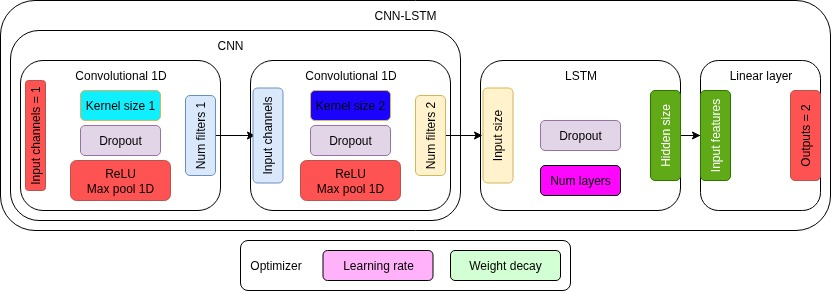
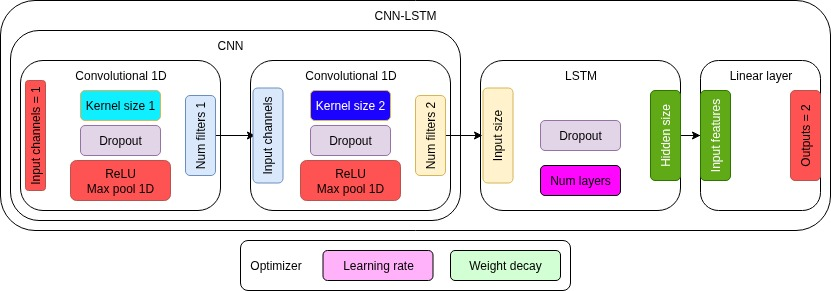
Final touches on report

diff --git a/report/JacobLarsen_4101586.tex b/report/JacobLarsen_4101586.tex
@@ -5,7 +5,7 @@
 % Language setting
 % Replace `english' with e.g. `spanish' to change the document language
 \usepackage[english]{babel}
-
+\usepackage{csquotes}
 % Set page size and margins
 % Replace `letterpaper' with `a4paper' for UK/EU standard size
 \usepackage[a4paper,top=3cm,bottom=3cm,left=2cm,right=2cm]{geometry}
@@ -39,7 +39,7 @@
 \setlength{\textfloatsep}{1pt}      % Space between text and floats
 \setlength{\abovecaptionskip}{1pt}  % Space above captions
 \setlength{\belowcaptionskip}{1pt}  % Space below captions
-
+\setcounter{tocdepth}{2}
 \begin{document}
 \subfile{sections/frontpage.tex}
 
@@ -50,7 +50,7 @@
 \newpage
 \begin{abstract}
 %The abstract should provide a comprehensive overview of your task, detailing the problem you are addressing, the algorithm you have selected/developed/applied, the dataset you used for evaluation, and the results you obtained. Please ensure the structure reflects a typical computer vision paper, focusing on clarity and conciseness.
-Automated detection of epileptic seizures from Electroencephalography (EEG) data is critical for improving clinical workflows, patient care, and targeted neuromodulation therapies. Traditional visual inspection of massive EEG volumes by neurologists is slow, labor-intensive, and prone to human error. To address this, we investigate a hybrid deep learning framework combining a Convolutional Neural Network (CNN) and a Long Short-Term Memory (LSTM) network to automatically extract local structural patterns and track temporal dependencies in sequential time-series data.
+Automated detection of epileptic seizures from Electroencephalography (EEG) data is critical for improving clinical workflows, patient care, and targeted neuromodulation therapies. Traditional visual inspection of massive EEG volumes by neurologists is slow, labor-intensive, and prone to human error. To address this, a hybrid deep learning framework is investigated, combining a Convolutional Neural Network (CNN) and a Long Short-Term Memory (LSTM) network to automatically extract local structural patterns and track temporal dependencies in sequential time-series data.
 
 The proposed CNN-LSTM architecture is rigorously evaluated on the Bonn University EEG dataset for binary classification between healthy states and active seizures. To assess robustness on more complex temporal structures, the model is further benchmarked against a secondary hand-gesture dataset. Minimal preprocessing, featuring bandpass filtering and z-score normalization, is applied to preserve anomalous neural spikes. For the EEG task, data augmentation is achieved via 1-second segmenting with a 75\% overlap, utilizing stratified splits and weighted cross-entropy loss to combat class imbalances. Hyperparameters are optimized using a comprehensive 1152-configuration grid search followed by 5-fold cross-validation.
 
@@ -73,15 +73,22 @@ Experimental results demonstrate that the optimal CNN-LSTM model achieves a high
 % References
 \newpage
 %\bibliographystyle{apalike}  % Choose from: plain, apalike, ieeetr, etc.
-\printbibliography
+%\printbibliography
+\section{References}
+\printbibliography[
+heading=none
+]
 \newpage
+\section{Acknowledgments}
+Generative AI has been used in this report for proofreading, clarification and drafting of certain paragraphs.
 \appendix
-\section{Source code link}
+\section{Appendix}
+\subsection{Source code link}
 The source code of the project can be found on Github:
 \url{https://github.com/Jack-The-Dane/KIV}
-\section{5 best grid search models}
+\subsection{5 best grid search models}
 \label{app:gridsearch}
-\begin{table}
+\begin{table}[h]
     \centering
     \begin{tabular}{c|c|c|c|c|c}
         Parameter    & Model 1 & Model 2 & Model 3 & Model 4 & Model 5 \\

diff --git a/report/sections/results.tex b/report/sections/results.tex
@@ -15,7 +15,7 @@ The grid search algorithm searched through $1152$ different combinations of hype
     \label{tab:gridsearch}
 \end{table}
 \subsection{Cross validation}
-The five top-performing models from the grid search (ranked by F1-score) were evaluated using five-fold cross-validation. The five models can be seen in \cref{tab:app_gridsearch}. To allow sufficient opportunity for optimization, the early stopping patience was set to nine epochs.
+The five top-performing models from the grid search (ranked by F1-score) were evaluated using five-fold cross-validation. The five models can be seen in \cref{app:gridsearch}. To allow sufficient opportunity for optimization, the early stopping patience was set to nine epochs.
 
 The parameters and cross-validation metrics (averaged across all five folds) for the optimal seizure detection model are presented in \cref{tab:bestmodel}. \cref{fig:confusion} displays the averaged, normalized confusion matrix for this model. The model achieved a low error rate of 0.69\%, consisting of 0.26\% false negatives and 0.43\% false positives.
 
@@ -61,9 +61,9 @@ The training and validation loss curves for the first fold are illustrated in \c
     \label{fig:metrics}
 \end{figure}
 \subsection{Comparison with logistic regression}
-While this model behaves very nicely on the Bonn University EEG dataset, this is also quite a simple dataset, with very clear separations between the classified labels, meaning that a much simpler model would have been able to reach comparable results. A group member trained a logistic regression model, using only statistical features of the dataset, their results can be seen in \cref{tab:kasper}. As seen in the table, their model reaches a result remarkably close to the CNN-LSTM model despite being much simpler. This can mostly be explained by the simplicity of the dataset.
+While this model behaves very nicely on the Bonn University EEG dataset, this is also quite a simple dataset, with very clear separations between the classified labels, meaning that a much simpler model would have been able to reach comparable results. A group member, Kasper, trained a logistic regression model, using only statistical features of the dataset, their results can be seen in \cref{tab:kasper}. As seen in the table, their model reaches a result remarkably close to the CNN-LSTM model despite being much simpler. This can mostly be explained by the simplicity of the dataset.
 
-\begin{table}
+\begin{table}[h]
     \caption{Seizure classification results of logistic regression model, implemented by group member}
     \label{tab:kasper}
     \begin{subtable}{.5\linewidth}
@@ -93,13 +93,13 @@ While this model behaves very nicely on the Bonn University EEG dataset, this is
     \end{subtable} 
 \end{table}
 \subsection{Comparing gesture classification capabilities}
-To test how the two models compare on a more advanced dataset, both models were tasked with binary classification on a gesture dataset. With the gesture dataset, the same five model configurations as before were validated with five-fold cross validation. This is justified by the relatively large variation in hyper-parameter configurations of those five models.
+To test how the two models compare on a more advanced dataset, both models were tasked with binary classification on a gesture dataset. With the gesture dataset, the same five model configurations as before were validated with five-fold cross validation. This is justified by the relatively large variation in hyper-parameter configurations of those five models, as seen in \cref{app:gridsearch}.
 
 This dataset seems to favor a more complex model, with larger kernel sizes and layer sizes. This also makes sense in the context that this data is much more complex and spans a longer duration, so the CNN can find more significant features and the LSTM is required to retain information for much longer.
 Gesture classification performance metrics of the CNN-LSTM model can be seen in \cref{tab:rps_cnn} along with the hyper-parameters of the model. Confusion matrix and loss curves can be seen in \cref{fig:metrics_rps}. 
 \begin{table}
     \centering
-    \caption{Performance metrics and parameters of the best model for gesture classification found by five-fold cross validation}
+    \caption{Parameters and performance metrics of the best model for gesture classification found by five-fold cross validation}
     \begin{adjustbox}{width=\textwidth}
     \begin{tabular}{|c|c|c|c|c|c|c|c|c|}
         \hline

diff --git a/report/sections/frontpage.tex b/report/sections/frontpage.tex
@@ -31,6 +31,8 @@
     \hline
     Title of Report/Assignment: & Robust detection of seizures in EEG data using CNN-LSTM model \\
     \hline
+    Other Group Members: & Kasper Bloch Mathiasen \\
+    \hline
     Submission Date: & 04-06-2026 \\
     \hline
     \end{tabularx}\\[1cm]

diff --git a/report/sections/methodology.tex b/report/sections/methodology.tex
@@ -36,7 +36,7 @@ The chosen model architecture for this task is a combined Convulational Neural N
 The idea behind this is that the CNN model will be applied to the input data, where it will learn the most significant spatial features during training and then extract those, as the convolutional filters are passed over it. The LSTM will then learn the time-dependent relationships between those features. Finally, a fully connected layer is used to convert the LSTM output to the two target classes. The model structure and parameters can be seen in \cref{fig:CNN-LSTM}.
 \begin{figure}[H]
     \includegraphics[width=\textwidth]{figures/CNN-LSTM.jpg}
-    \caption{Structure of the implemented CNN-LSTM. All parts in red boxes are non-configurable, while boxes of all other colors contain parameters that will be varied in a grid search. The dropout parameter is kept the same in all layers, in the interest of reducing the number of configurations searched.}
+    \caption{Structure of the implemented CNN-LSTM. All parts in red boxes are non-configurable, while boxes of all other colors contain parameters that were varied in a grid search. The dropout parameter is kept the same in all layers, in the interest of reducing the number of configurations searched.}
     \label{fig:CNN-LSTM}
 \end{figure}
 The CNN model is a sequential model consisting of two one-dimensional convolutional layers. These two layers each learn and extract a number of features by passing a kernel over their respective inputs. To help the CNN model learn more stably, the ReLU activation layers introduce non-linearities and prevent vanishing gradient problems, while the max pooling layers serve to only forward the most significant features while also halving the output size, such that the LSTM will be operating on input lengths one quarter the length of the input to the CNN. The dropout layers help both the CNN and the LSTM in preventing overfitting to the training data. 